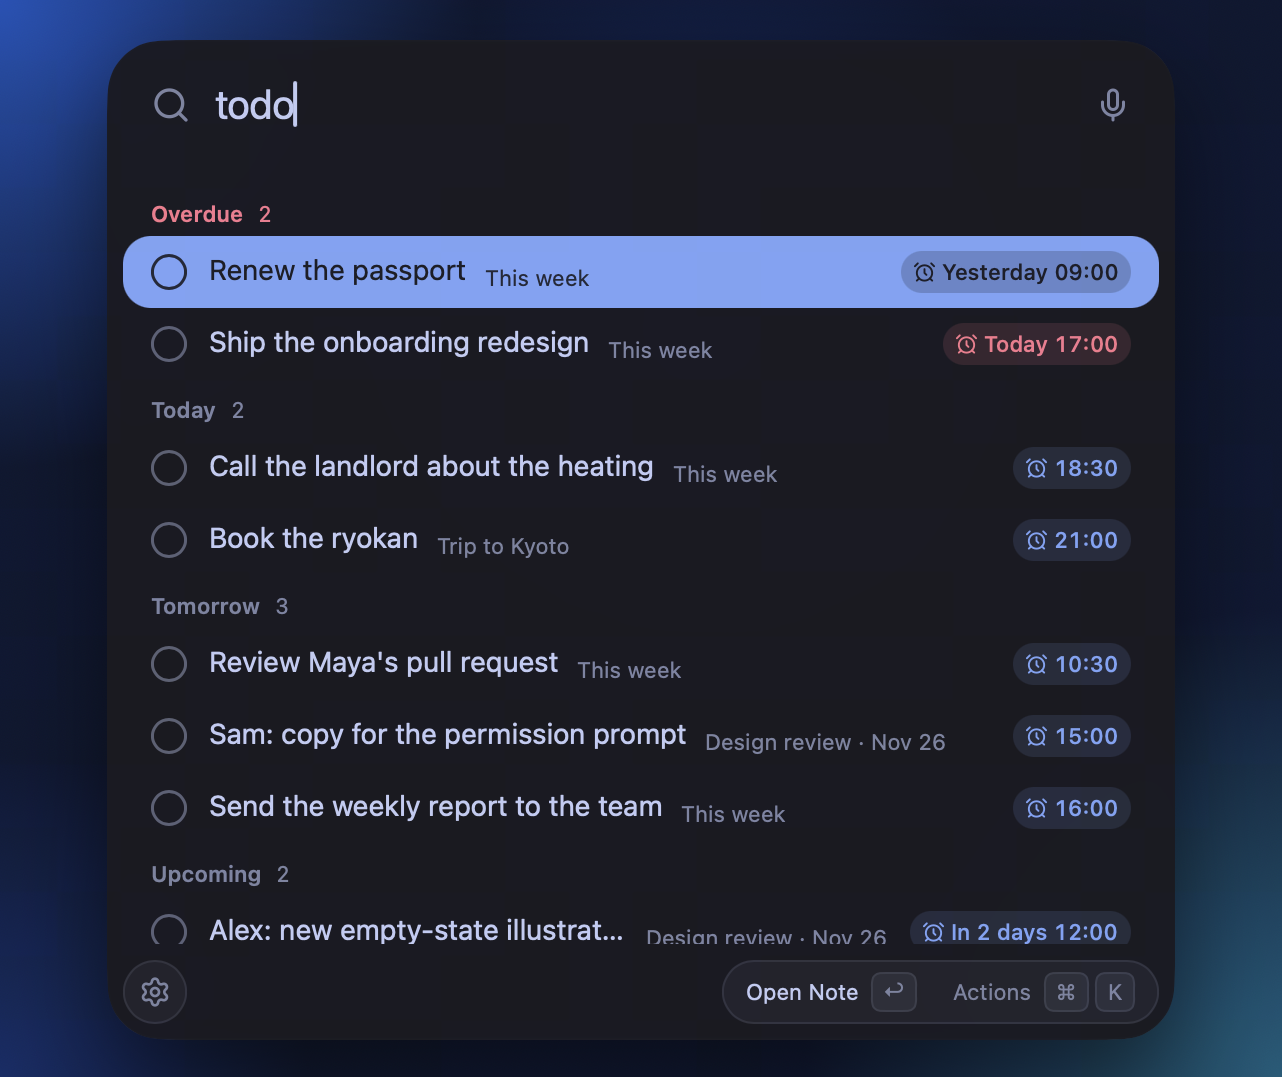
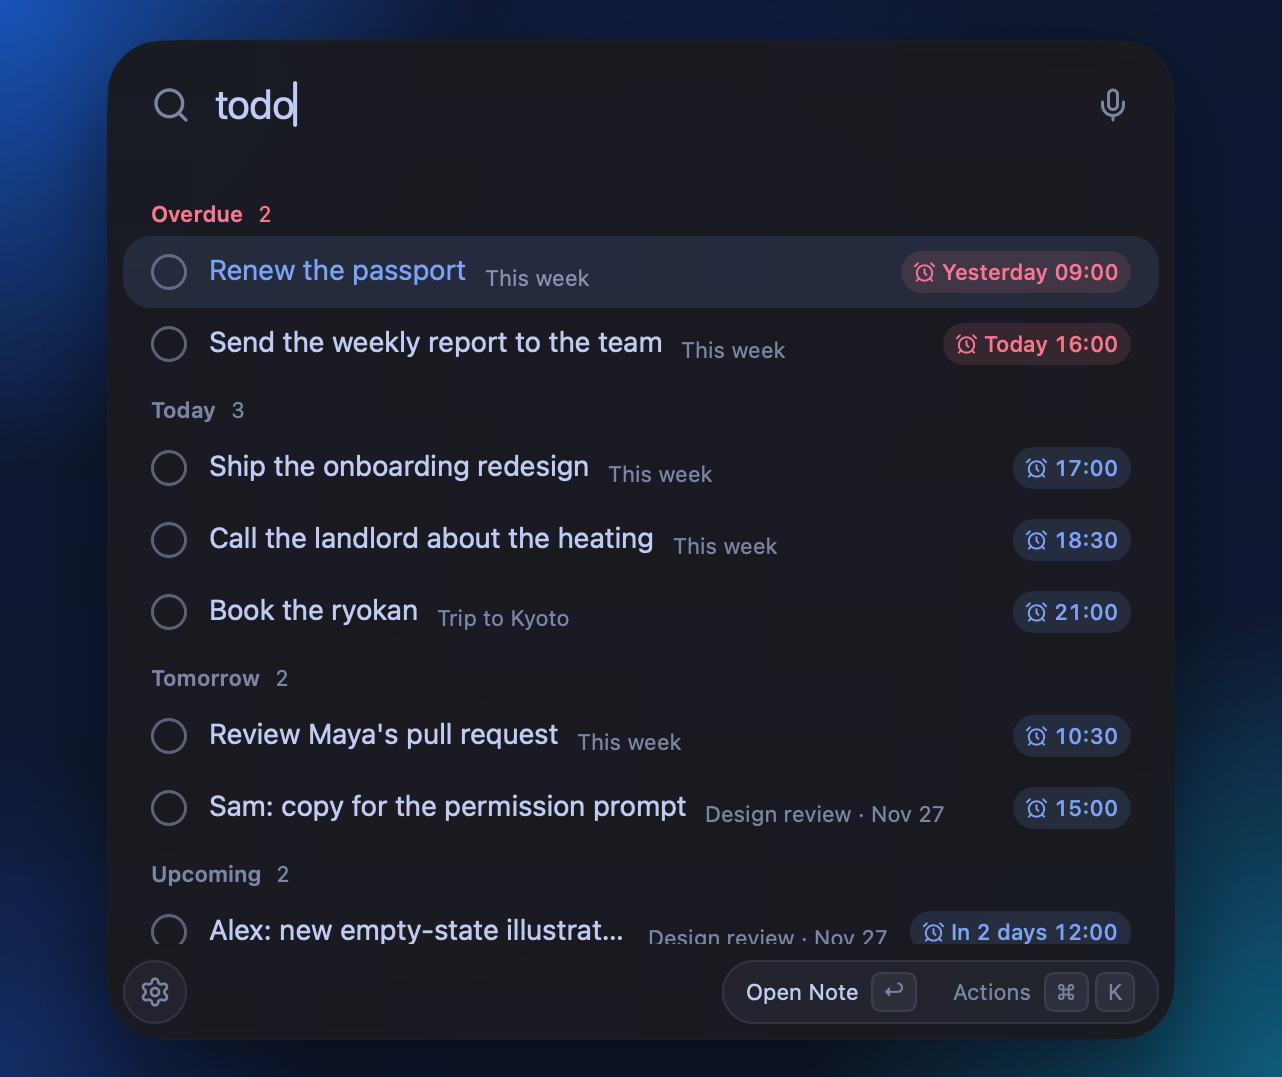
readme: Retake the screenshots for the new list and glass (#98)
Both README screenshots were out of date: the list's rows changed in #96
(semibold titles, a soft selection, today's to-dos as a card, day
sections), and the default theme's glass changed in #97.

- `design/screenshots/light.png` and `dark.png` retaken with
`scripts/screenshots.sh` on a build of `main` (8aa657c). Checked by eye:
1282×1077, demo notes only, nothing over the panel. The website's
preview image (`og.png`) comes from `light.png`, so it follows.
- The shots were taken on a Friday after 16:00, so the demo's "Send the
weekly report" (due Friday 16:00) counts as overdue: the shots show "2
overdue" where 1 is usual. Everything else reads as intended.
- Light shot's alt text, in both READMEs: what it shows now (today's
to-dos card above the notes, by Claude and Claude Code; Cursor's note is
below the fold).
- Use section, in both READMEs: what the list shows with nothing typed,
and that ⌘K can give a note an emoji (#93).

diff --git a/README.zh-CN.md b/README.zh-CN.md
@@ -13,7 +13,7 @@
 搜索、读取、追加同一批笔记，你和它们共用一个本子。
 
 <p align="center">
-  <img src="design/screenshots/light.png" alt="浅色模式下的 Jot 浮窗：最近的笔记，其中几条由 Claude、Claude Code 和 Cursor 写下" width="49%" align="top">
+  <img src="design/screenshots/light.png" alt="浅色模式下的 Jot 浮窗：今天的待办卡片在上，下面是今天改过的笔记，其中几条由 Claude 和 Claude Code 写下" width="49%" align="top">
   <img src="design/screenshots/dark.png" alt="深色模式、Tokyo Night 主题下的 Jot 待办视图：未完成的待办按过期、今天、明天、以后分组，每条带着所在笔记和提醒时间" width="49%" align="top">
 </p>
 
@@ -45,8 +45,9 @@ curl -fsSL https://madcodelife.github.io/jot/install.sh | sh
 ## 使用
 
 - **打开浮窗**：连按两下 ⌥。第一次 macOS 会请求辅助功能权限，连按 ⌥ 需要它；没授权时用 ⌃⌥J 打开。
-- **查找或新建**：边输入边按标题和正文过滤；搜不到时按回车，就以输入内容为标题新建。
-- **操作笔记**：在一行上按 ⌘K，可以打开、重命名、复制、在访达中显示、锁定或移到废纸篓（可撤销）。
+- **查找或新建**：什么都没输入时，今天的待办在最上面，下面是按天分组的最近笔记。边输入边按标题和正文过滤；搜不到时按回车，
+  就以输入内容为标题新建。
+- **操作笔记**：在一行上按 ⌘K，可以打开、重命名、加个 emoji、复制、在访达中显示、锁定或移到废纸篓（可撤销）。
 - **待办**：输入「待办」（或 `/todo`）列出所有未完成的待办，按时间分组；⇧⌘D 改提醒时间。
 - **语音输入**：按住 ⌥ 说话，写进搜索框或笔记；在任何 App 里连按两下 ⌥ 并按住，记一条速记。
 - **锁定笔记**：⌘K →「锁定」让笔记只读，Jot、你的 AI 应用和其他任何程序都改不了它（访达里的「已锁定」）。

diff --git a/README.md b/README.md
@@ -14,7 +14,7 @@ a folder you choose, and your AI apps (Claude, Cursor, Codex, …) search, read 
 they keep one notebook between you.
 
 <p align="center">
-  <img src="design/screenshots/light.png" alt="Jot's panel in light mode: recent notes, some written by Claude, Claude Code and Cursor" width="49%" align="top">
+  <img src="design/screenshots/light.png" alt="Jot's panel in light mode: a card of today's to-dos above the notes changed today, some written by Claude and Claude Code" width="49%" align="top">
   <img src="design/screenshots/dark.png" alt="Jot's to-do view in dark mode with the Tokyo Night theme: open to-dos grouped as overdue, today, tomorrow and upcoming, each with its note and reminder time" width="49%" align="top">
 </p>
 
@@ -49,9 +49,10 @@ notarized by Apple, so run `xattr -dr com.apple.quarantine /Applications/Jot.app
 
 - **Open the panel**: double-press ⌥. The first time, macOS asks for Accessibility access, which the double-press
   needs; without it, ⌃⌥J opens the panel.
-- **Find or create**: type to filter notes by title and body; when nothing matches, Return creates a note with that
-  title.
-- **Act on a note**: ⌘K on a row to open, rename, copy, show in Finder, lock or move it to the Trash (with undo).
+- **Find or create**: with nothing typed, today's to-dos sit above your recent notes, grouped by day. Type to filter
+  notes by title and body; when nothing matches, Return creates a note with that title.
+- **Act on a note**: ⌘K on a row to open, rename, give it an emoji, copy, show in Finder, lock or move it to the Trash
+  (with undo).
 - **To-dos**: type `todo` (or `/todo`) for every open to-do, grouped by when it is due; ⇧⌘D changes a reminder's time.
 - **Dictation**: hold ⌥ to talk into the search field or a note; double-press and hold ⌥ in any app for a quick note.
 - **Lock a note**: ⌘K → Lock makes it read-only for Jot, your AI apps and every other program (Finder's "Locked").
